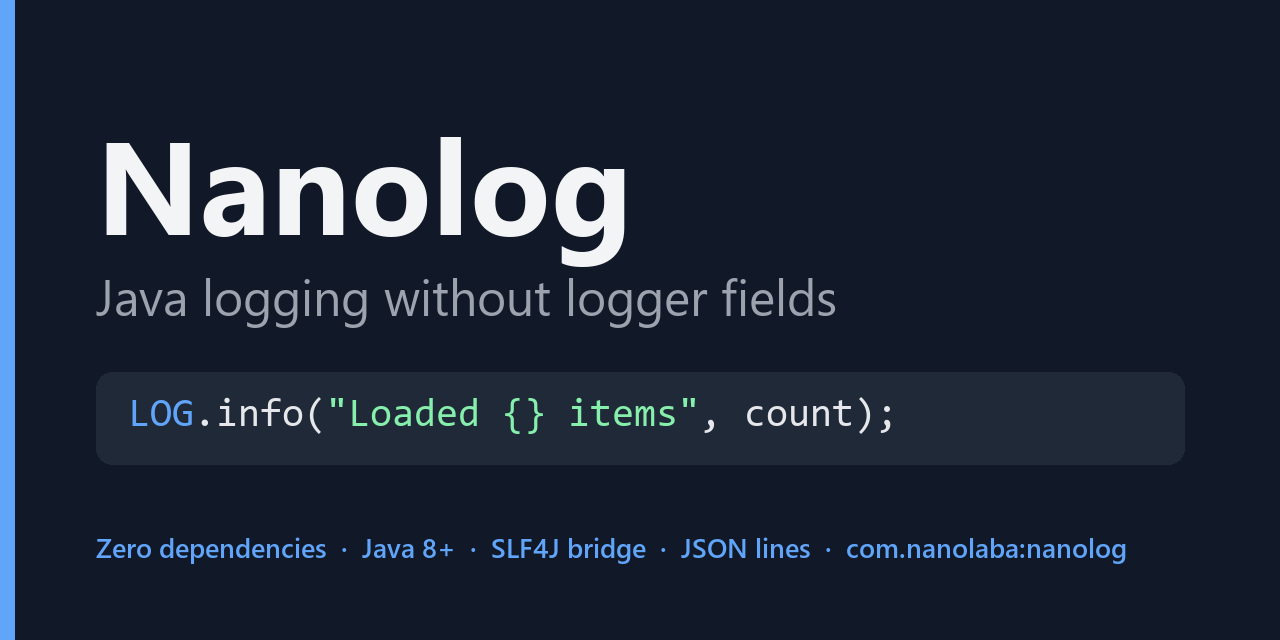
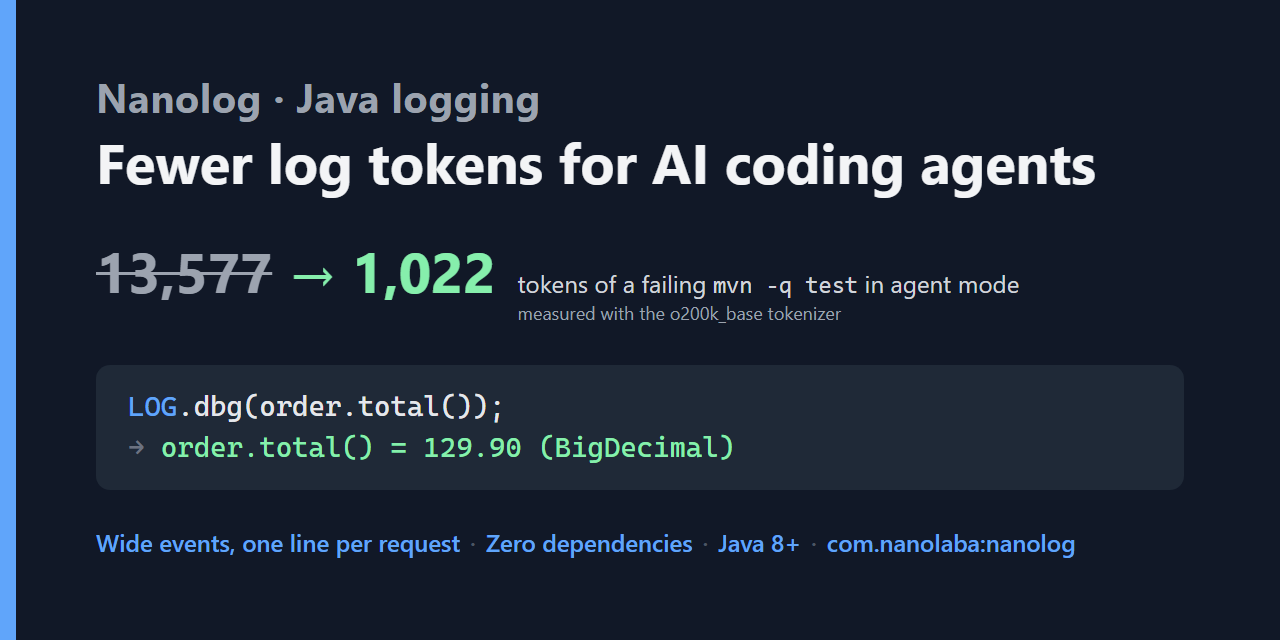
Release presentation: a social preview that leads with fewer tokens
- assets/social-preview.png, regenerated from its new source
  assets/social-preview.html with headless Chrome: fewer log tokens for
  AI coding agents, 13,577 to 1,022 tokens of a failing mvn -q test
  (o200k_base, src/tokens/RESULTS.md), LOG.dbg with its output, wide
  events and the coordinates.
- The release checklist in AGENTS.md: --discussion-category
  Announcements, a title and a first line that lead with the measured
  saving when a release has headline features, a Feedback block at the
  end of the notes, and the social preview to upload when the lead
  changes.

The upload of the preview, the 1.4 release and its pinned feedback
discussion happen at the release.

Refs #80

Changed region(s): [[0.0625, 0.125, 0.875, 0.5312], [0.0938, 0.5938, 0.6875, 0.7188], [0.0625, 0.8438, 0.875, 0.875]]

diff --git a/assets/social-preview.html b/assets/social-preview.html
@@ -1,0 +1,113 @@
+<!doctype html>
+<!--
+  The source of social-preview.png, 1280x640, the card GitHub shows wherever a link to the repository is shared.
+  Regenerate after a change (the numbers come from src/tokens/RESULTS.md only, with the tokenizer named):
+    chrome --headless --hide-scrollbars --force-device-scale-factor=1 --window-size=1280,640
+           --screenshot=assets/social-preview.png assets/social-preview.html
+  then upload the PNG in Settings > General > Social preview.
+-->
+<html lang="en">
+<head>
+<meta charset="utf-8">
+<title>Nanolog social preview</title>
+<style>
+  html, body {
+    margin: 0;
+    width: 1280px;
+    height: 640px;
+    overflow: hidden;
+    background: #111827;
+    color: #f3f4f6;
+    font-family: "Segoe UI", "Noto Sans", system-ui, sans-serif;
+  }
+  .bar {
+    position: absolute;
+    left: 0;
+    top: 0;
+    bottom: 0;
+    width: 16px;
+    background: #60a5fa;
+  }
+  .page {
+    position: absolute;
+    left: 96px;
+    right: 96px;
+    top: 70px;
+  }
+  .name {
+    font-size: 40px;
+    font-weight: 700;
+    color: #9ca3af;
+    letter-spacing: 0.5px;
+  }
+  .headline {
+    margin-top: 6px;
+    font-size: 56px;
+    font-weight: 700;
+    line-height: 1.15;
+    white-space: nowrap;
+  }
+  .stat {
+    margin-top: 40px;
+    display: flex;
+    align-items: baseline;
+    gap: 22px;
+  }
+  .numbers {
+    font-size: 56px;
+    font-weight: 700;
+    color: #86efac;
+    white-space: nowrap;
+  }
+  .numbers .from {
+    color: #9ca3af;
+    text-decoration: line-through;
+    text-decoration-thickness: 3px;
+  }
+  .caption {
+    font-size: 24px;
+    color: #d1d5db;
+    line-height: 1.3;
+  }
+  .caption small {
+    display: block;
+    font-size: 18px;
+    color: #9ca3af;
+  }
+  .code {
+    margin-top: 40px;
+    padding: 22px 32px;
+    background: #1f2937;
+    border-radius: 14px;
+    font-family: "Cascadia Mono", Consolas, "DejaVu Sans Mono", monospace;
+    font-size: 28px;
+    line-height: 1.45;
+    color: #e5e7eb;
+  }
+  .code .log { color: #60a5fa; }
+  .code .out { color: #86efac; }
+  .code .arrow { color: #6b7280; }
+  .footer {
+    margin-top: 36px;
+    font-size: 24px;
+    font-weight: 600;
+    color: #60a5fa;
+  }
+  .footer .dot { color: #4b5563; padding: 0 10px; }
+</style>
+</head>
+<body>
+<div class="bar"></div>
+<div class="page">
+  <div class="name">Nanolog · Java logging</div>
+  <div class="headline">Fewer log tokens for AI coding agents</div>
+  <div class="stat">
+    <div class="numbers"><span class="from">13,577</span> → 1,022</div>
+    <div class="caption">tokens of a failing <code>mvn -q test</code> in agent mode
+      <small>measured with the o200k_base tokenizer</small></div>
+  </div>
+  <div class="code"><span class="log">LOG</span>.dbg(order.total());<br><span class="arrow">→</span> <span class="out">order.total() = 129.90 (BigDecimal)</span></div>
+  <div class="footer">Wide events, one line per request<span class="dot">·</span>Zero dependencies<span class="dot">·</span>Java 8+<span class="dot">·</span>com.nanolaba:nanolog</div>
+</div>
+</body>
+</html>

diff --git a/AGENTS.md b/AGENTS.md
@@ -267,7 +267,10 @@ Release checklist:
 
 1. Set the release version in `pom.xml` and the `nanolog.stableVersion` property to the same value, update the changelog section in `README.src.md`, run `mvn compile`, commit the regenerated README files, `llms.txt` and `SKILL.md` together with the sources.
 2. `mvn clean deploy` on JDK 11 or newer, so the jar gets its module descriptor (signs the artifacts and publishes them to Maven Central), then tag the release commit (`git tag -a vX.Y -m "Nanolog X.Y"`) and push the branch and the tag.
-3. **Create a GitHub release for the tag.** Every published version must have one: `gh release create vX.Y --verify-tag --title "vX.Y" --notes-file notes.md`. The notes are the `### X.Y` changelog section from `README.src.md` (English), grouped into "New" / "Fixes" / "Documentation and build", followed by the Maven coordinates and a `compare/vPREV...vX.Y` link; the `v1.1` release is the reference layout. Do not publish it as a draft or pre-release.
+3. **Create a GitHub release for the tag.** Every published version must have one: `gh release create vX.Y --verify-tag --title "<title>" --notes-file notes.md --discussion-category Announcements`, which also opens a discussion of the release. The notes are the `### X.Y` changelog section from `README.src.md` (English), grouped into "New" / "Fixes" / "Documentation and build", followed by the Maven coordinates and a `compare/vPREV...vX.Y` link; the `v1.1` release is the reference layout. Do not publish it as a draft or pre-release.
+   - **Title and first line.** A release without headline features is titled `vX.Y`. A release with them names them, the measured one first, as in "Nanolog 1.4: fewer tokens for AI coding agents, LOG.dbg and wide events"; the first line of the notes gives the measured saving and links to the README section *Fewer tokens: logs for AI coding agents*. Token numbers come only from `src/tokens/RESULTS.md`, with the tokenizer named; re-measure with `src/tokens/measure.py` first if the output of agent mode changed since.
+   - **Feedback.** The notes end with a "Feedback" block: the discussion of the release, [Q&A](https://github.com/nanolaba/nanolog/discussions/categories/q-a) and the [issue forms](https://github.com/nanolaba/nanolog/issues/new/choose).
+   - **Social preview.** When the release changes what the project leads with, edit `assets/social-preview.html`, regenerate `assets/social-preview.png` with the command in its header (headless Chrome, 1280×640) and upload the PNG in *Settings → General → Social preview*; GitHub has no API for it.
 4. Once the version is on Maven Central, paste *Try it* of the README into a new Maven project and a new Gradle Kotlin DSL project: it compiles, and `LOG.dbg` prints the expression text.
 5. Bump `pom.xml` to the next `-SNAPSHOT`, run `mvn compile`, commit the regenerated README files.
 
